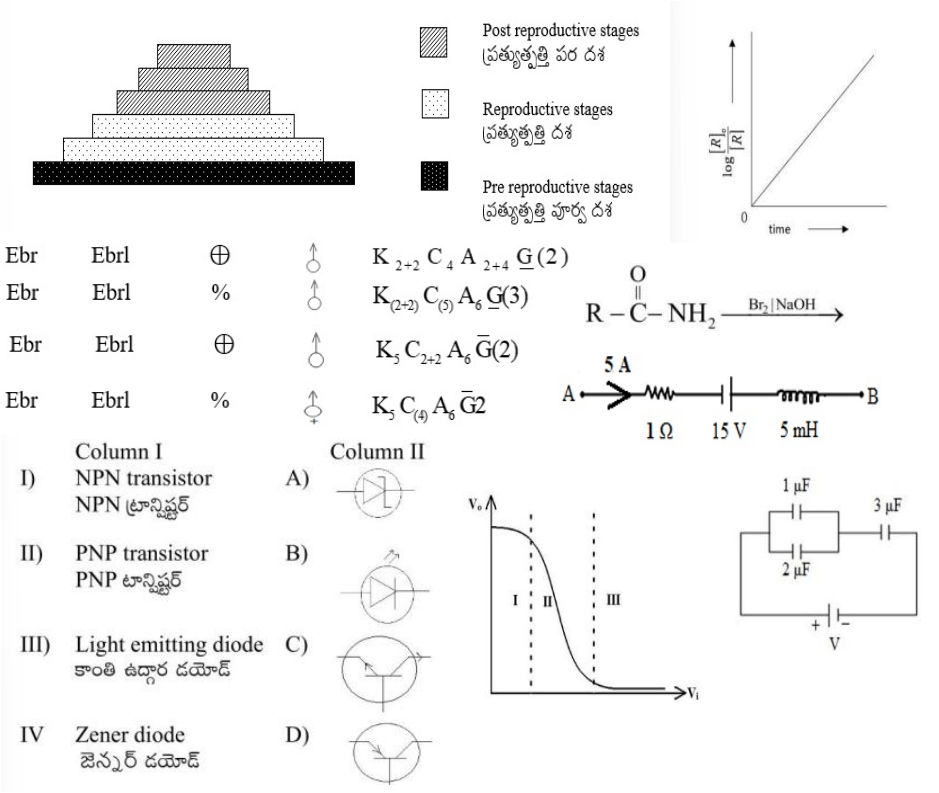
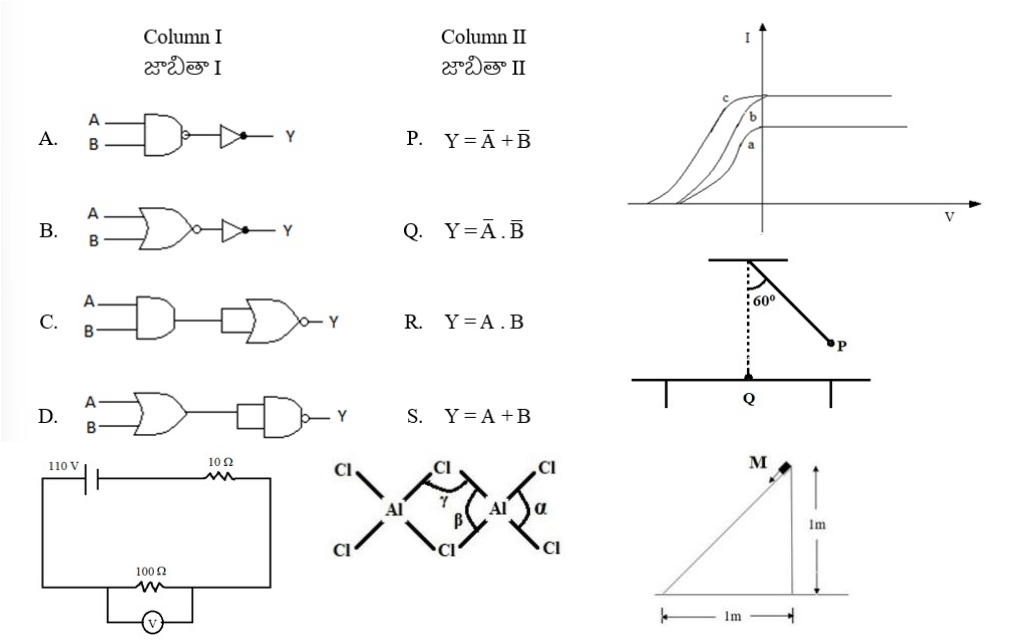
Fixed

diff --git a/img/medical/eamcet/ts/prev/ts_eam_med_11_may_2023_s1.css b/img/medical/eamcet/ts/prev/ts_eam_med_11_may_2023_s1.css
@@ -7,38 +7,23 @@ Responsive: <div class="yourspritesname"></div>
 */
 
 
-.TS_EAMCET_Medical_10_May_2023_Shidt_2_Q104 {max-width:217px; max-height:191px; }
-.TS_EAMCET_Medical_10_May_2023_Shidt_2_Q104::after {content: '\00a0';display: inline-block; width:217px; height:191px; background-position: 99.86149584487535% 77.24252491694352%;background-size: 432.71889400921657% 415.18324607329845%;background-image: url(ts_eam_med_11_may_2023_s1.png);padding: 0; }
-div.TS_EAMCET_Medical_10_May_2023_Shidt_2_Q104::after {max-width:217px; width:100%;height:0;padding: 0 0 88.0184331797235% 0;}
-.TS_EAMCET_Medical_10_May_2023_Shidt_2_Q111 {max-width:373px; max-height:126px; }
-.TS_EAMCET_Medical_10_May_2023_Shidt_2_Q111::after {content: '\00a0';display: inline-block; width:373px; height:126px; background-position: 93.63957597173145% 50.67466266866567%;background-size: 251.7426273458445% 629.3650793650794%;background-image: url(ts_eam_med_11_may_2023_s1.png);padding: 0; }
-div.TS_EAMCET_Medical_10_May_2023_Shidt_2_Q111::after {max-width:373px; width:100%;height:0;padding: 0 0 33.78016085790885% 0;}
-.TS_EAMCET_Medical_10_May_2023_Shidt_2_Q118 {max-width:443px; max-height:357px; }
-.TS_EAMCET_Medical_10_May_2023_Shidt_2_Q118::after {content: '\00a0';display: inline-block; width:443px; height:357px; background-position: 0.20161290322580644% 99.77064220183486%;background-size: 211.96388261851015% 222.12885154061624%;background-image: url(ts_eam_med_11_may_2023_s1.png);padding: 0; }
-div.TS_EAMCET_Medical_10_May_2023_Shidt_2_Q118::after {max-width:443px; width:100%;height:0;padding: 0 0 80.58690744920993% 0;}
-.TS_EAMCET_Medical_10_May_2023_Shidt_2_Q119 {max-width:275px; max-height:247px; }
-.TS_EAMCET_Medical_10_May_2023_Shidt_2_Q119::after {content: '\00a0';display: inline-block; width:275px; height:247px; background-position: 67.01807228915662% 85.16483516483517%;background-size: 341.45454545454544% 321.05263157894734%;background-image: url(ts_eam_med_11_may_2023_s1.png);padding: 0; }
-div.TS_EAMCET_Medical_10_May_2023_Shidt_2_Q119::after {max-width:275px; width:100%;height:0;padding: 0 0 89.81818181818181% 0;}
-.TS_EAMCET_Medical_10_May_2023_Shidt_2_Q142 {max-width:262px; max-height:242px; }
-.TS_EAMCET_Medical_10_May_2023_Shidt_2_Q142::after {content: '\00a0';display: inline-block; width:262px; height:242px; background-position: 98.96602658788774% 0.18148820326678766%;background-size: 358.39694656488547% 327.68595041322317%;background-image: url(ts_eam_med_11_may_2023_s1.png);padding: 0; }
-div.TS_EAMCET_Medical_10_May_2023_Shidt_2_Q142::after {max-width:262px; width:100%;height:0;padding: 0 0 92.36641221374046% 0;}
-.TS_EAMCET_Medical_10_May_2023_Shidt_2_Q157_O1 {max-width:288px; max-height:93px; }
-.TS_EAMCET_Medical_10_May_2023_Shidt_2_Q157_O1::after {content: '\00a0';display: inline-block; width:288px; height:93px; background-position: 88.63287250384025% 34.857142857142854%;background-size: 326.0416666666667% 852.6881720430108%;background-image: url(ts_eam_med_11_may_2023_s1.png);padding: 0; }
-div.TS_EAMCET_Medical_10_May_2023_Shidt_2_Q157_O1::after {max-width:288px; width:100%;height:0;padding: 0 0 32.291666666666664% 0;}
-.TS_EAMCET_Medical_10_May_2023_Shidt_2_Q56 {max-width:668px; max-height:231px; }
-.TS_EAMCET_Medical_10_May_2023_Shidt_2_Q56::after {content: '\00a0';display: inline-block; width:668px; height:231px; background-position: 0.36900369003690037% 0.17793594306049823%;background-size: 140.5688622754491% 343.2900432900433%;background-image: url(ts_eam_med_11_may_2023_s1.png);padding: 0; }
-div.TS_EAMCET_Medical_10_May_2023_Shidt_2_Q56::after {max-width:668px; width:100%;height:0;padding: 0 0 34.58083832335329% 0;}
-.TS_EAMCET_Medical_10_May_2023_Shidt_2_Q9_O1 {max-width:496px; max-height:61px; }
-.TS_EAMCET_Medical_10_May_2023_Shidt_2_Q9_O1::after {content: '\00a0';display: inline-block; width:496px; height:61px; background-position: 0.22573363431151242% 50.95628415300546%;background-size: 189.31451612903226% 1300%;background-image: url(ts_eam_med_11_may_2023_s1.png);padding: 0; }
-div.TS_EAMCET_Medical_10_May_2023_Shidt_2_Q9_O1::after {max-width:496px; width:100%;height:0;padding: 0 0 12.298387096774194% 0;}
-.TS_EAMCET_Medical_10_May_2023_Shidt_2_Q9_O2 {max-width:528px; max-height:50px; }
-.TS_EAMCET_Medical_10_May_2023_Shidt_2_Q9_O2::after {content: '\00a0';display: inline-block; width:528px; height:50px; background-position: 0.24330900243309003% 43.337819650067296%;background-size: 177.8409090909091% 1586%;background-image: url(ts_eam_med_11_may_2023_s1.png);padding: 0; }
-div.TS_EAMCET_Medical_10_May_2023_Shidt_2_Q9_O2::after {max-width:528px; width:100%;height:0;padding: 0 0 9.469696969696969% 0;}
-.TS_EAMCET_Medical_10_May_2023_Shidt_2_Q9_O3 {max-width:575px; max-height:42px; }
-.TS_EAMCET_Medical_10_May_2023_Shidt_2_Q9_O3::after {content: '\00a0';display: inline-block; width:575px; height:42px; background-position: 0.27472527472527475% 31.025299600532623%;background-size: 163.30434782608697% 1888.095238095238%;background-image: url(ts_eam_med_11_may_2023_s1.png);padding: 0; }
-div.TS_EAMCET_Medical_10_May_2023_Shidt_2_Q9_O3::after {max-width:575px; width:100%;height:0;padding: 0 0 7.304347826086956% 0;}
-.TS_EAMCET_Medical_10_May_2023_Shidt_2_Q9_O4 {max-width:535px; max-height:45px; }
-.TS_EAMCET_Medical_10_May_2023_Shidt_2_Q9_O4::after {content: '\00a0';display: inline-block; width:535px; height:45px; background-position: 0.24752475247524752% 36.898395721925134%;background-size: 175.51401869158877% 1762.2222222222222%;background-image: url(ts_eam_med_11_may_2023_s1.png);padding: 0; }
-div.TS_EAMCET_Medical_10_May_2023_Shidt_2_Q9_O4::after {max-width:535px; width:100%;height:0;padding: 0 0 8.411214953271028% 0;}
+.TS_EAMCET_Medical_11_May_2023_Shift_1_Q106 {max-width:302px; max-height:197px; }
+.TS_EAMCET_Medical_11_May_2023_Shift_1_Q106::after {content: '\00a0';display: inline-block; width:302px; height:197px; background-position: 0.1392757660167131% 99.77477477477477%;background-size: 337.74834437086093% 325.38071065989845%;background-image: url(ts_eam_med_11_may_2023_s1.png);padding: 0; }
+div.TS_EAMCET_Medical_11_May_2023_Shift_1_Q106::after {max-width:302px; width:100%;height:0;padding: 0 0 65.23178807947019% 0;}
+.TS_EAMCET_Medical_11_May_2023_Shift_1_Q116 {max-width:430px; max-height:238px; }
+.TS_EAMCET_Medical_11_May_2023_Shift_1_Q116::after {content: '\00a0';display: inline-block; width:430px; height:238px; background-position: 99.83050847457628% 0.24813895781637718%;background-size: 237.2093023255814% 269.327731092437%;background-image: url(ts_eam_med_11_may_2023_s1.png);padding: 0; }
+div.TS_EAMCET_Medical_11_May_2023_Shift_1_Q116::after {max-width:430px; width:100%;height:0;padding: 0 0 55.348837209302324% 0;}
+.TS_EAMCET_Medical_11_May_2023_Shift_1_Q119 {max-width:587px; max-height:441px; }
+.TS_EAMCET_Medical_11_May_2023_Shift_1_Q119::after {content: '\00a0';display: inline-block; width:587px; height:441px; background-position: 0.23094688221709006% 0.5%;background-size: 173.76490630323678% 145.3514739229025%;background-image: url(ts_eam_med_11_may_2023_s1.png);padding: 0; }
+div.TS_EAMCET_Medical_11_May_2023_Shift_1_Q119::after {max-width:587px; width:100%;height:0;padding: 0 0 75.12776831345826% 0;}
+.TS_EAMCET_Medical_11_May_2023_Shift_1_Q133 {max-width:281px; max-height:117px; }
+.TS_EAMCET_Medical_11_May_2023_Shift_1_Q133::after {content: '\00a0';display: inline-block; width:281px; height:117px; background-position: 41.13667117726658% 84.54198473282443%;background-size: 362.98932384341634% 547.8632478632478%;background-image: url(ts_eam_med_11_may_2023_s1.png);padding: 0; }
+div.TS_EAMCET_Medical_11_May_2023_Shift_1_Q133::after {max-width:281px; width:100%;height:0;padding: 0 0 41.637010676156585% 0;}
+.TS_EAMCET_Medical_11_May_2023_Shift_1_Q85 {max-width:331px; max-height:203px; }
+.TS_EAMCET_Medical_11_May_2023_Shift_1_Q85::after {content: '\00a0';display: inline-block; width:331px; height:203px; background-position: 85.48621190130623% 54.794520547945204%;background-size: 308.1570996978852% 315.76354679802955%;background-image: url(ts_eam_med_11_may_2023_s1.png);padding: 0; }
+div.TS_EAMCET_Medical_11_May_2023_Shift_1_Q85::after {max-width:331px; width:100%;height:0;padding: 0 0 61.329305135951664% 0;}
+.TS_EAMCET_Medical_11_May_2023_Shift_1_Q86 {max-width:302px; max-height:195px; }
+.TS_EAMCET_Medical_11_May_2023_Shift_1_Q86::after {content: '\00a0';display: inline-block; width:302px; height:195px; background-position: 81.61559888579387% 99.55156950672645%;background-size: 337.74834437086093% 328.71794871794873%;background-image: url(ts_eam_med_11_may_2023_s1.png);padding: 0; }
+div.TS_EAMCET_Medical_11_May_2023_Shift_1_Q86::after {max-width:302px; width:100%;height:0;padding: 0 0 64.56953642384106% 0;}
 
-/* $TexturePacker:SmartUpdate:9d4e5f07186bc09e48683d4c350c5eb2:175c918c862d710710d52c61211d38c1:068ab9407544cde3ba8f31caf0bd561d$ */
+/* $TexturePacker:SmartUpdate:52213701382d2b18d5149e434fb243b2:2315634addef56c60327a0531ecebdf5:068ab9407544cde3ba8f31caf0bd561d$ */
